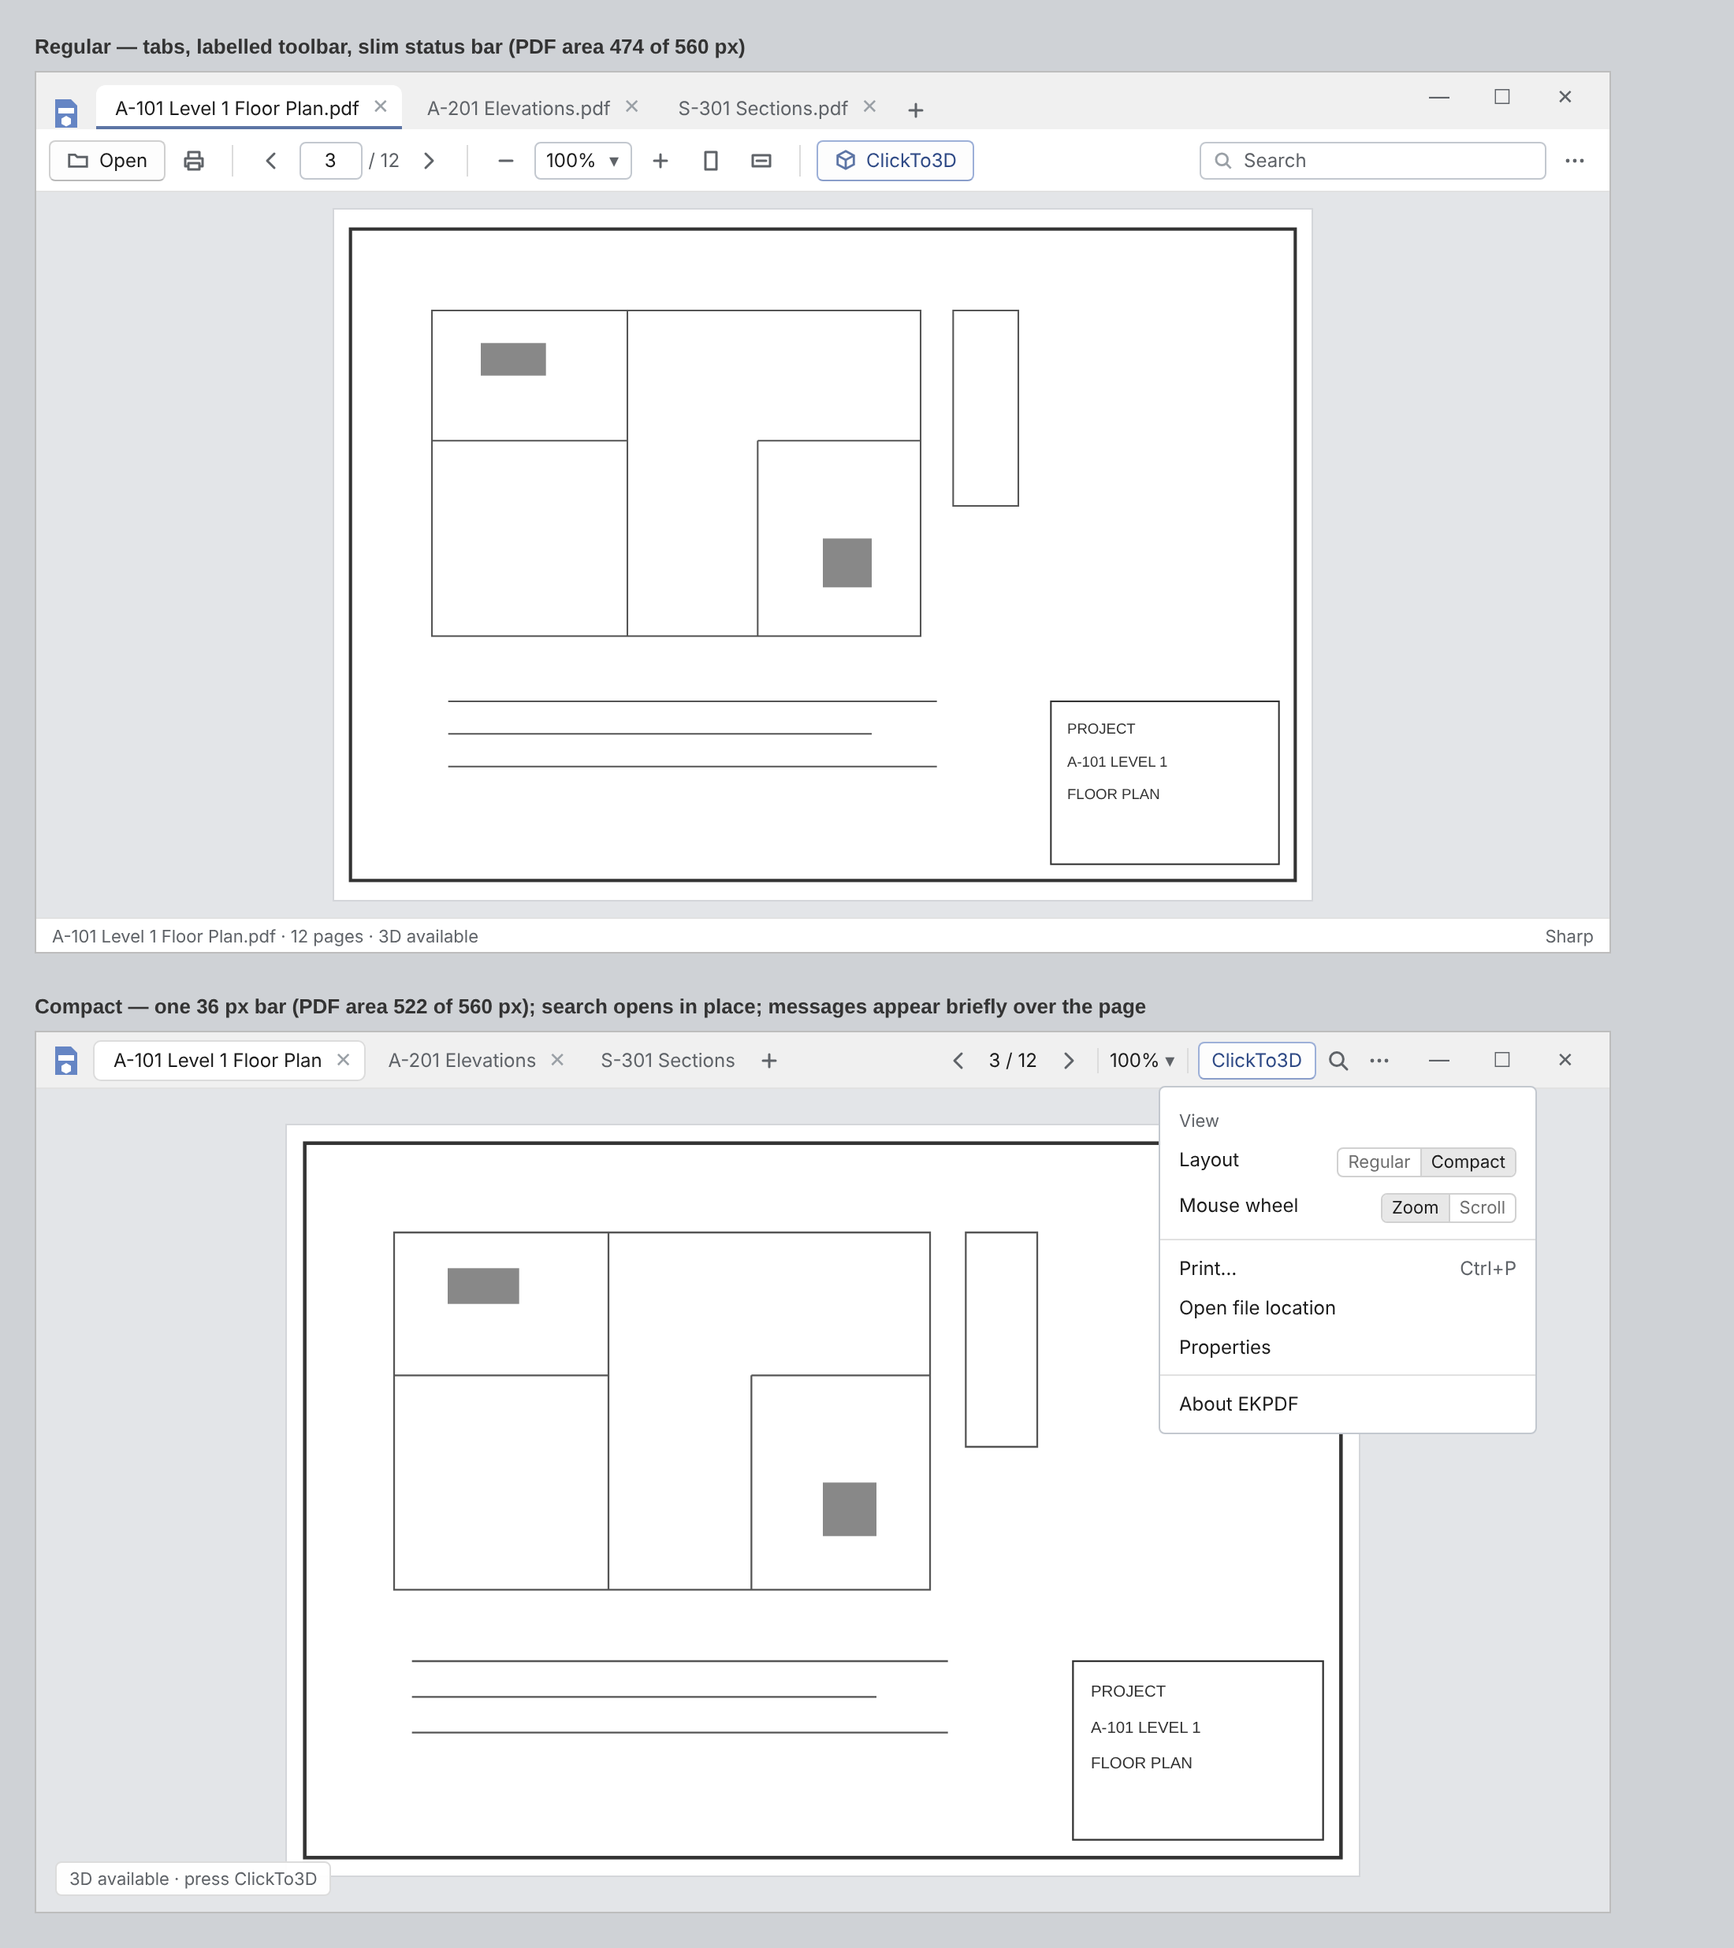
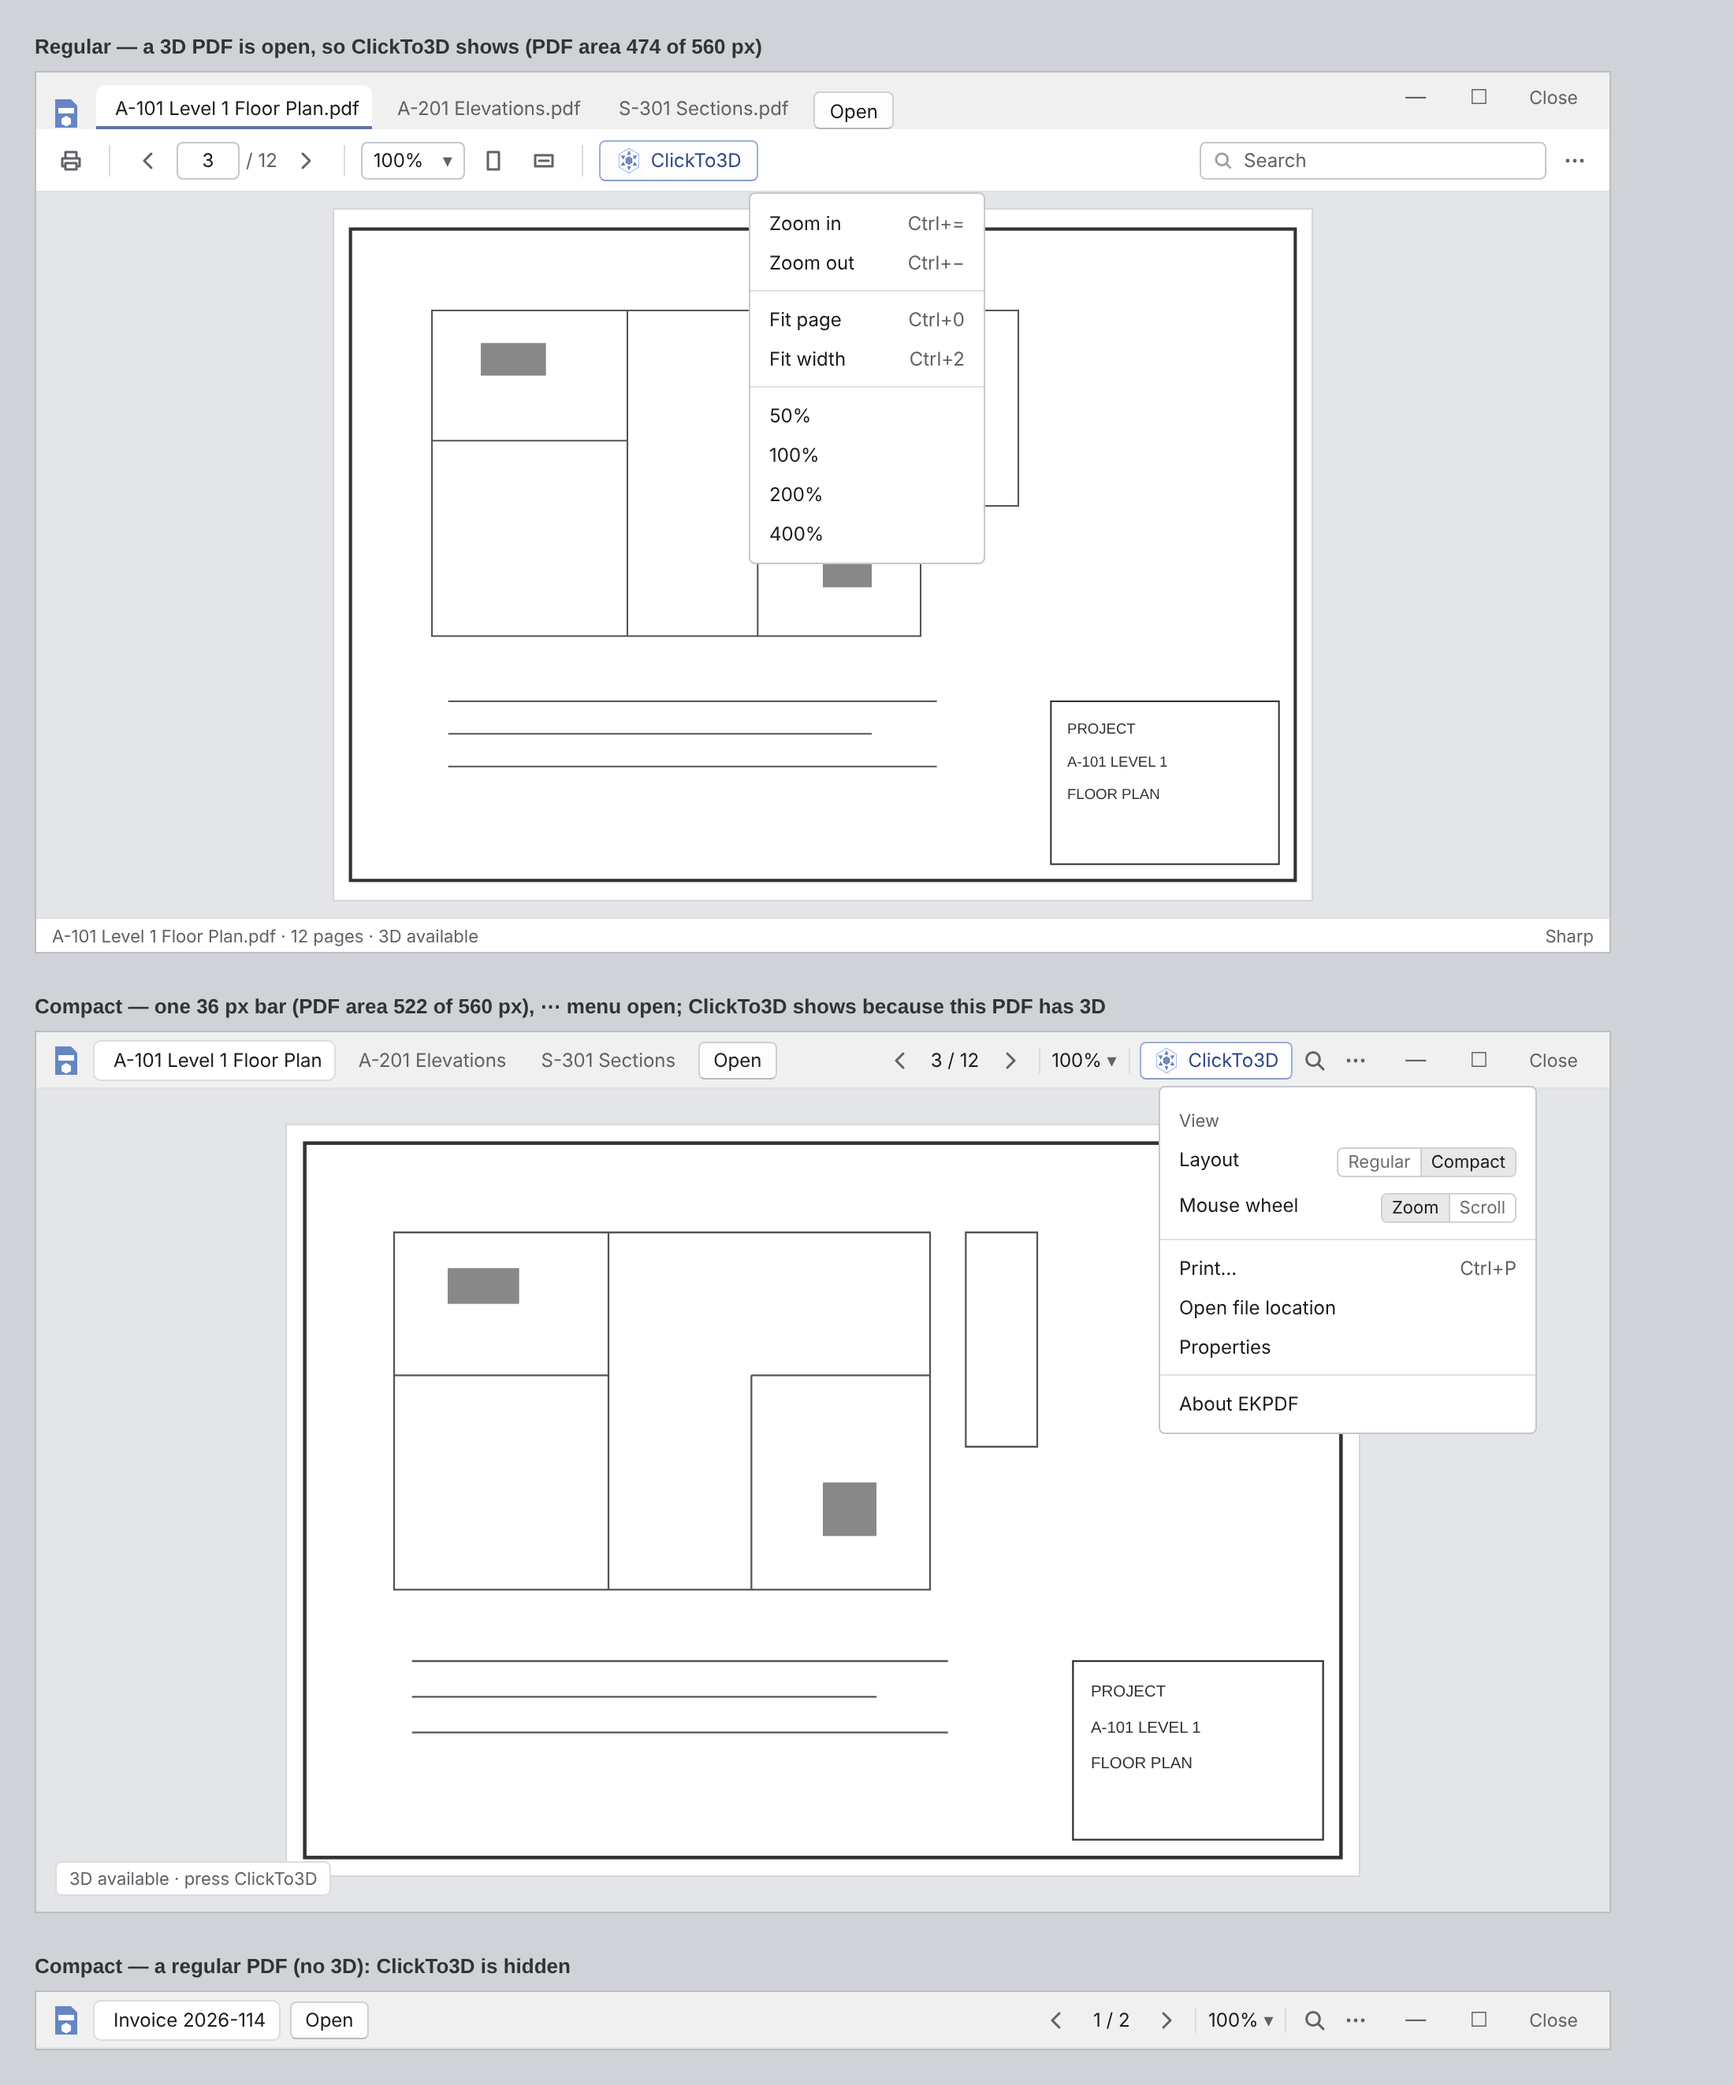
Viewer: ClickTo3D shows only for PDFs with 3D; mockups without plus/x controls
PdfPackageService.Has3D finds the package's attachment name with a
streaming byte search (no parsing); checked once per document off the
UI thread. Mockups: words instead of + and x (Open, Close, zoom list).

Claude-Session: https://claude.ai/code/session_01N3DjppHZ7MgzVDBG7VuKSR

diff --git a/docs/mockups/viewer-layouts.html b/docs/mockups/viewer-layouts.html
@@ -38,46 +38,46 @@
 <symbol id="drawing" viewBox="0 0 600 420"><rect x="10" y="10" width="580" height="400" fill="none" stroke="#333" stroke-width="2"/><rect x="440" y="300" width="140" height="100" fill="none" stroke="#333"/><g stroke="#555" fill="none"><path d="M60 60h300v200H60z M60 140h120 M180 60v200 M260 140h100 M260 140v120"/><path d="M380 60h40v120h-40z" /><path d="M70 300h300M70 320h260M70 340h300"/></g><g fill="#888"><rect x="90" y="80" width="40" height="20"/><rect x="300" y="200" width="30" height="30"/></g><g fill="#333" font-size="9" font-family="Arial"><text x="450" y="320">PROJECT</text><text x="450" y="340">A-101 LEVEL 1</text><text x="450" y="360">FLOOR PLAN</text></g></symbol>
 </defs></svg>
 
-<div><div class="cap">Regular — tabs, labelled toolbar, slim status bar (PDF area 474 of 560 px)</div>
-<div class="win">
+<div><div class="cap">Regular — a 3D PDF is open, so ClickTo3D shows (PDF area 474 of 560 px)</div>
+<div class="win" style="position:relative">
  <div class="row" style="height:36px;background:#f0f0f0;padding-top:6px;align-items:flex-end">
   <svg class="logo" viewBox="0 0 18 20"><path d="M2 1h10l4 4v14H2z" fill="#6585c4"/><rect x="4" y="6.5" width="10" height="3.5" fill="#fff"/><path d="M9 11.5l3 1.7v3.4L9 18.3 6 16.6v-3.4z" fill="#fff"/></svg>
-  <div class="tab on">A-101 Level 1 Floor Plan.pdf <span class="x">✕</span></div><div class="tab">A-201 Elevations.pdf <span class="x">✕</span></div><div class="tab">S-301 Sections.pdf <span class="x">✕</span></div>
-  <div class="ico sm"><svg><use href="#plus"/></svg></div>
-  <div class="win-btns" style="align-self:flex-start;margin-top:-6px"><span>—</span><span>☐</span><span>✕</span></div>
+  <div class="tab on">A-101 Level 1 Floor Plan.pdf</div><div class="tab">A-201 Elevations.pdf</div><div class="tab">S-301 Sections.pdf</div>
+  <div class="btn" style="height:24px;padding:0 9px;margin-left:4px">Open</div>
+  <div class="win-btns" style="align-self:flex-start;margin-top:-6px"><span>—</span><span>☐</span><span style="width:auto;padding:0 12px;font-size:11.5px">Close</span></div>
  </div>
  <div class="row" style="height:40px;background:#fff;border-bottom:1px solid #e1e1e1">
-  <div class="btn"><svg width="15" height="15" style="stroke:#5f6368;fill:none;stroke-width:1.5"><use href="#open"/></svg>Open</div>
-  <div class="ico"><svg><use href="#print"/></svg></div>
+    <div class="ico"><svg><use href="#print"/></svg></div>
   <div class="div"></div>
   <div class="ico"><svg><use href="#left"/></svg></div><div class="field" style="width:40px;justify-content:center">3</div><span class="sec">/ 12</span><div class="ico"><svg><use href="#right"/></svg></div>
   <div class="div"></div>
-  <div class="ico"><svg><use href="#minus"/></svg></div><div class="field" style="width:62px;justify-content:space-between">100%<span class="sec">▾</span></div><div class="ico"><svg><use href="#plus"/></svg></div>
+  <div class="field" style="width:66px;justify-content:space-between">100%<span class="sec">▾</span></div>
   <div class="ico"><svg><use href="#fitp"/></svg></div><div class="ico"><svg><use href="#fitw"/></svg></div>
   <div class="div"></div>
-  <div class="btn accent"><svg width="15" height="15" style="stroke:#5d75a5;fill:none;stroke-width:1.5"><use href="#cube"/></svg>ClickTo3D</div>
+  <div class="btn accent"><img src="clickto3d-256.png" width="16" height="16">ClickTo3D</div>
   <div style="flex:1"></div>
   <div class="field" style="width:220px"><svg width="14" height="14" style="stroke:#9aa0a6;fill:none;stroke-width:1.6"><use href="#search"/></svg><span class="sec">Search</span></div>
   <div class="ico"><svg><use href="#more"/></svg></div>
  </div>
  <div class="doc"><svg class="page" width="620" height="438"><use href="#drawing"/></svg></div>
+ <div class="menu" style="left:452px;right:auto;top:76px;width:150px;position:absolute"><div>Zoom in <span class="sec">Ctrl+=</span></div><div>Zoom out <span class="sec">Ctrl+−</span></div><hr><div>Fit page <span class="sec">Ctrl+0</span></div><div>Fit width <span class="sec">Ctrl+2</span></div><hr><div>50%</div><div>100%</div><div>200%</div><div>400%</div></div>
  <div class="status"><span>A-101 Level 1 Floor Plan.pdf · 12 pages · 3D available</span><span>Sharp</span></div>
 </div></div>
 
-<div><div class="cap">Compact — one 36 px bar (PDF area 522 of 560 px); search opens in place; messages appear briefly over the page</div>
+<div><div class="cap">Compact — one 36 px bar (PDF area 522 of 560 px), ⋯ menu open; ClickTo3D shows because this PDF has 3D</div>
 <div class="win" style="position:relative">
  <div class="row" style="height:36px;background:#f0f0f0;border-bottom:1px solid #e1e1e1;gap:2px">
   <svg class="logo" viewBox="0 0 18 20"><path d="M2 1h10l4 4v14H2z" fill="#6585c4"/><rect x="4" y="6.5" width="10" height="3.5" fill="#fff"/><path d="M9 11.5l3 1.7v3.4L9 18.3 6 16.6v-3.4z" fill="#fff"/></svg>
-  <div class="tab on" style="height:26px;border-radius:5px;box-shadow:none;border:1px solid #dcdcdc">A-101 Level 1 Floor Plan <span class="x">✕</span></div><div class="tab" style="height:26px">A-201 Elevations <span class="x">✕</span></div><div class="tab" style="height:26px">S-301 Sections</div>
-  <div class="ico sm"><svg><use href="#plus"/></svg></div>
+  <div class="tab on" style="height:26px;border-radius:5px;box-shadow:none;border:1px solid #dcdcdc">A-101 Level 1 Floor Plan</div><div class="tab" style="height:26px">A-201 Elevations</div><div class="tab" style="height:26px">S-301 Sections</div>
+  <div class="btn" style="height:24px;padding:0 9px;margin-left:4px">Open</div>
   <div style="flex:1"></div>
   <div class="ico sm"><svg><use href="#left"/></svg></div><span style="min-width:42px;text-align:center">3 / 12</span><div class="ico sm"><svg><use href="#right"/></svg></div>
   <div class="div" style="height:16px;margin:0 4px"></div>
   <span style="min-width:44px;text-align:center">100% <span class="sec">▾</span></span>
   <div class="div" style="height:16px;margin:0 4px"></div>
-  <div class="btn accent" style="height:24px;padding:0 8px">ClickTo3D</div>
+  <div class="btn accent" style="height:24px;padding:0 8px"><img src="clickto3d-256.png" width="16" height="16">ClickTo3D</div>
   <div class="ico sm"><svg><use href="#search"/></svg></div><div class="ico sm"><svg><use href="#more"/></svg></div>
-  <div class="win-btns" style="margin-left:4px"><span>—</span><span>☐</span><span>✕</span></div>
+  <div class="win-btns" style="margin-left:4px"><span>—</span><span>☐</span><span style="width:auto;padding:0 12px;font-size:11.5px">Close</span></div>
  </div>
  <div class="doc"><svg class="page" width="680" height="476"><use href="#drawing"/></svg><div class="toast">3D available · press ClickTo3D</div></div>
  <div class="menu">
@@ -87,4 +87,16 @@
   <hr><div>Print… <span class="sec">Ctrl+P</span></div><div>Open file location</div><div>Properties</div><hr><div>About EKPDF</div>
  </div>
 </div></div>
+<div><div class="cap">Compact — a regular PDF (no 3D): ClickTo3D is hidden</div>
+<div class="win" style="height:auto">
+ <div class="row" style="height:36px;background:#f0f0f0;border-bottom:1px solid #e1e1e1;gap:2px">
+  <svg class="logo" viewBox="0 0 18 20"><path d="M2 1h10l4 4v14H2z" fill="#6585c4"/><rect x="4" y="6.5" width="10" height="3.5" fill="#fff"/><path d="M9 11.5l3 1.7v3.4L9 18.3 6 16.6v-3.4z" fill="#fff"/></svg>
+  <div class="tab on" style="height:26px;border-radius:5px;box-shadow:none;border:1px solid #dcdcdc">Invoice 2026-114</div>
+  <div class="btn" style="height:24px;padding:0 9px;margin-left:4px">Open</div>
+  <div style="flex:1"></div>
+  <div class="ico sm"><svg><use href="#left"/></svg></div><span style="min-width:42px;text-align:center">1 / 2</span><div class="ico sm"><svg><use href="#right"/></svg></div>
+  <div class="div" style="height:16px;margin:0 4px"></div><span style="min-width:44px;text-align:center">100% <span class="sec">▾</span></span><div class="div" style="height:16px;margin:0 4px"></div>
+  <div class="ico sm"><svg><use href="#search"/></svg></div><div class="ico sm"><svg><use href="#more"/></svg></div>
+  <div class="win-btns" style="margin-left:4px"><span>—</span><span>☐</span><span style="width:auto;padding:0 12px;font-size:11.5px">Close</span></div>
+ </div></div></div>
 </body></html>

diff --git a/offline3d-reader/src/Packaging/PdfPackage.cs b/offline3d-reader/src/Packaging/PdfPackage.cs
@@ -44,6 +44,24 @@ public sealed class PdfPackageService : IPdfPackageService
         using var output=new MemoryStream();var buffer=new byte[8192];int n;
         while((n=zip.Read(buffer,0,buffer.Length))>0){if(output.Length+n>limit)throw new InvalidDataException("Decompressed attachment too large");output.Write(buffer,0,n);}return output.ToArray();
     }
+    /// <summary>
+    /// Fast check whether a PDF carries an Offline 3D package: looks for the manifest's
+    /// attachment name in the file without parsing it (milliseconds, even for large
+    /// drawings). Used to show ClickTo3D; <see cref="Read"/> still validates everything.
+    /// </summary>
+    public static bool Has3D(string path) {
+        var needle=System.Text.Encoding.ASCII.GetBytes(Contract.ManifestName);
+        try{
+            using var file=new FileStream(path,FileMode.Open,FileAccess.Read,FileShare.ReadWrite|FileShare.Delete,1<<16);
+            var buffer=new byte[(1<<20)+needle.Length];int carry=0,read;
+            while((read=file.Read(buffer,carry,buffer.Length-carry))>0){
+                int length=carry+read;
+                if(buffer.AsSpan(0,length).IndexOf(needle)>=0)return true;
+                carry=Math.Min(needle.Length-1,length);Buffer.BlockCopy(buffer,length-carry,buffer,0,carry);
+            }
+        }catch(Exception ex) when (ex is IOException or UnauthorizedAccessException){}
+        return false;
+    }
     public OpenPackage Read(string path) {
         if(new FileInfo(path).Length>Contract.MaxPdf)throw new InvalidDataException("PDF too large");
         using var pdf=PdfReader.Open(path,PdfDocumentOpenMode.Import);

diff --git a/offline3d-reader/fastpdf/src/EKFastPDF/MainWindow.Offline3D.cs b/offline3d-reader/fastpdf/src/EKFastPDF/MainWindow.Offline3D.cs
@@ -33,6 +33,23 @@ public partial class MainWindow
     }
     private static readonly Brush ArmedBackground=new SolidColorBrush(Color.FromRgb(47,111,222)),ArmedBorder=new SolidColorBrush(Color.FromRgb(28,74,160));
 
+    // ClickTo3D shows only for PDFs that carry 3D (checked once per document, off the UI thread).
+    private readonly Dictionary<DocumentSession,bool?> has3D=new();
+    private void Sync3DButton(DocumentSession? session,bool ready)
+    {
+        bool show=false;
+        if(session!=null&&ready){
+            if(!has3D.TryGetValue(session,out var known)){
+                has3D[session]=null;
+                Task.Run(()=>PdfPackageService.Has3D(session.FilePath)).ContinueWith(t=>{has3D[session]=t.Status==TaskStatus.RanToCompletion&&t.Result;if(ReferenceEquals(session,_active))Sync3DButton(session,session.IsReady);},TaskScheduler.FromCurrentSynchronizationContext());
+            }
+            show=has3D[session]==true;
+        }
+        if(session!=null&&session.IsClosed)has3D.Remove(session);
+        Box3DButton.Visibility=show||boxArmed||boxShown?Visibility.Visible:Visibility.Collapsed;
+        Box3DButton.IsEnabled=ready;
+    }
+
     private void Box3D_Click(object sender,RoutedEventArgs e)
     {
         if(boxArmed||boxShown){Close3D();return;}

diff --git a/offline3d-reader/fastpdf/src/EKFastPDF/MainWindow.xaml.cs b/offline3d-reader/fastpdf/src/EKFastPDF/MainWindow.xaml.cs
@@ -121,7 +121,7 @@ public partial class MainWindow : Window
         var s = _active;
         bool ready = s?.IsReady == true;
         PrintButton.IsEnabled = ready;
-        Box3DButton.IsEnabled = ready;
+        Sync3DButton(s, ready);
         if (s is null || ready)
         {
             StatePanel.Visibility = Visibility.Collapsed;
